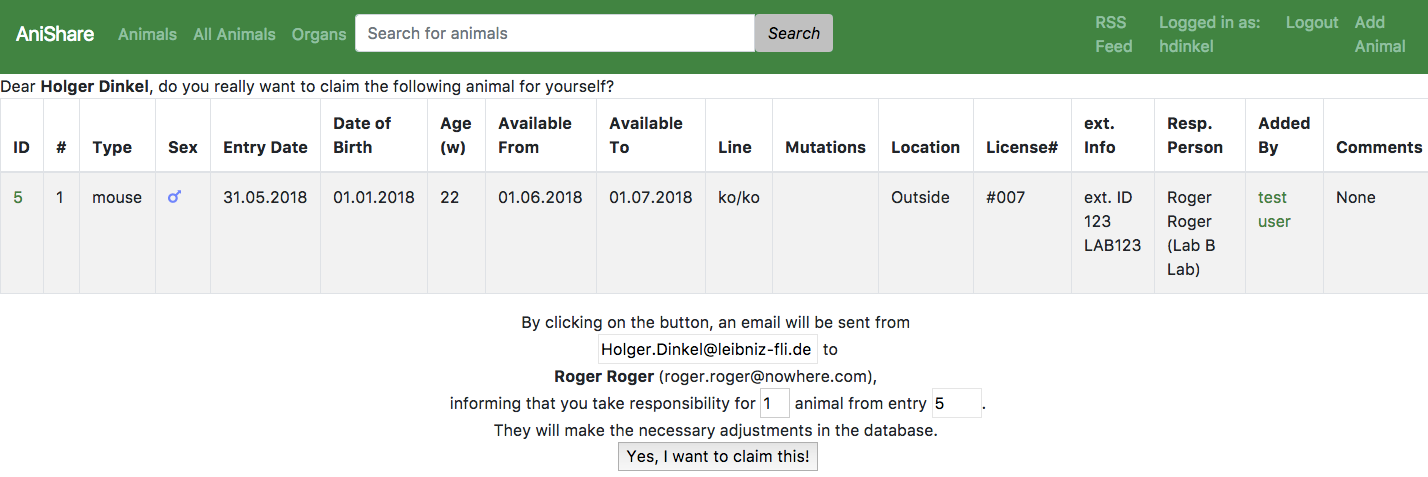
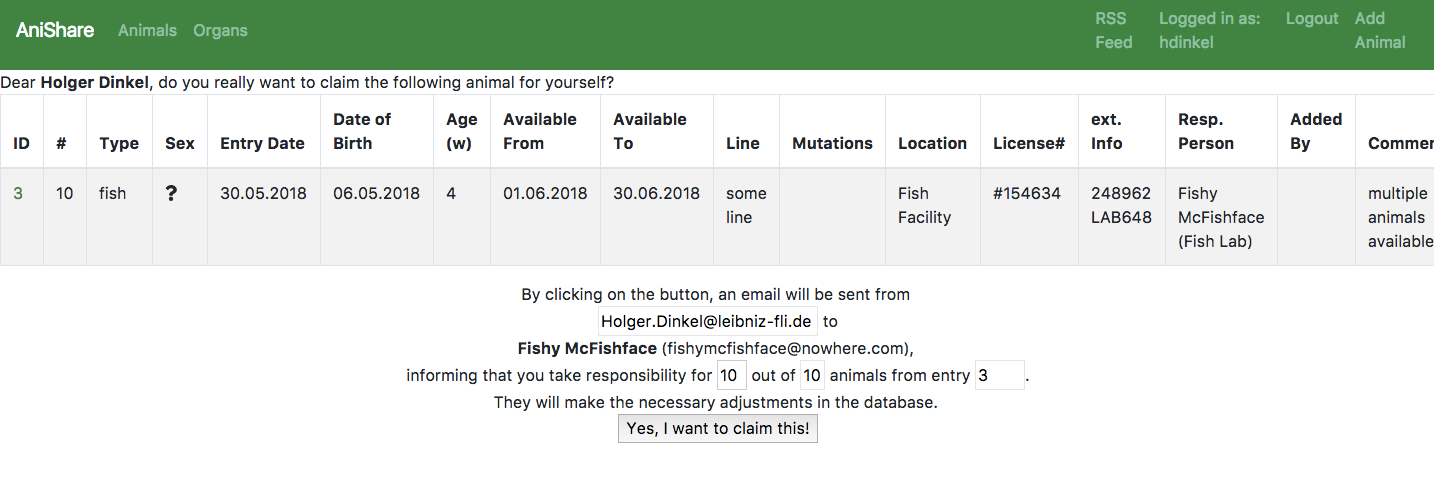
DOCU: version bump 1.3 replace figures to show new interface

diff --git a/doc/conf.py b/doc/conf.py
@@ -32,7 +32,7 @@ author = 'Holger Dinkel'
 # The short X.Y version
 version = ''
 # The full version, including alpha/beta/rc tags
-release = '1.2'
+release = '1.3'
 
 
 # -- General configuration ---------------------------------------------------

diff --git a/doc/index.rst b/doc/index.rst
@@ -262,7 +262,6 @@ After loading the data, the main admin interface should look like this:
 Importing existing data
 ^^^^^^^^^^^^^^^^^^^^^^^
 For import of existing data in tabular (excel) format, a management command is available at 
-:py:mod:`animals.models`.
 :py:mod:`animals.management.commands.import_animals` ::
    
    python manage.py import_animals
